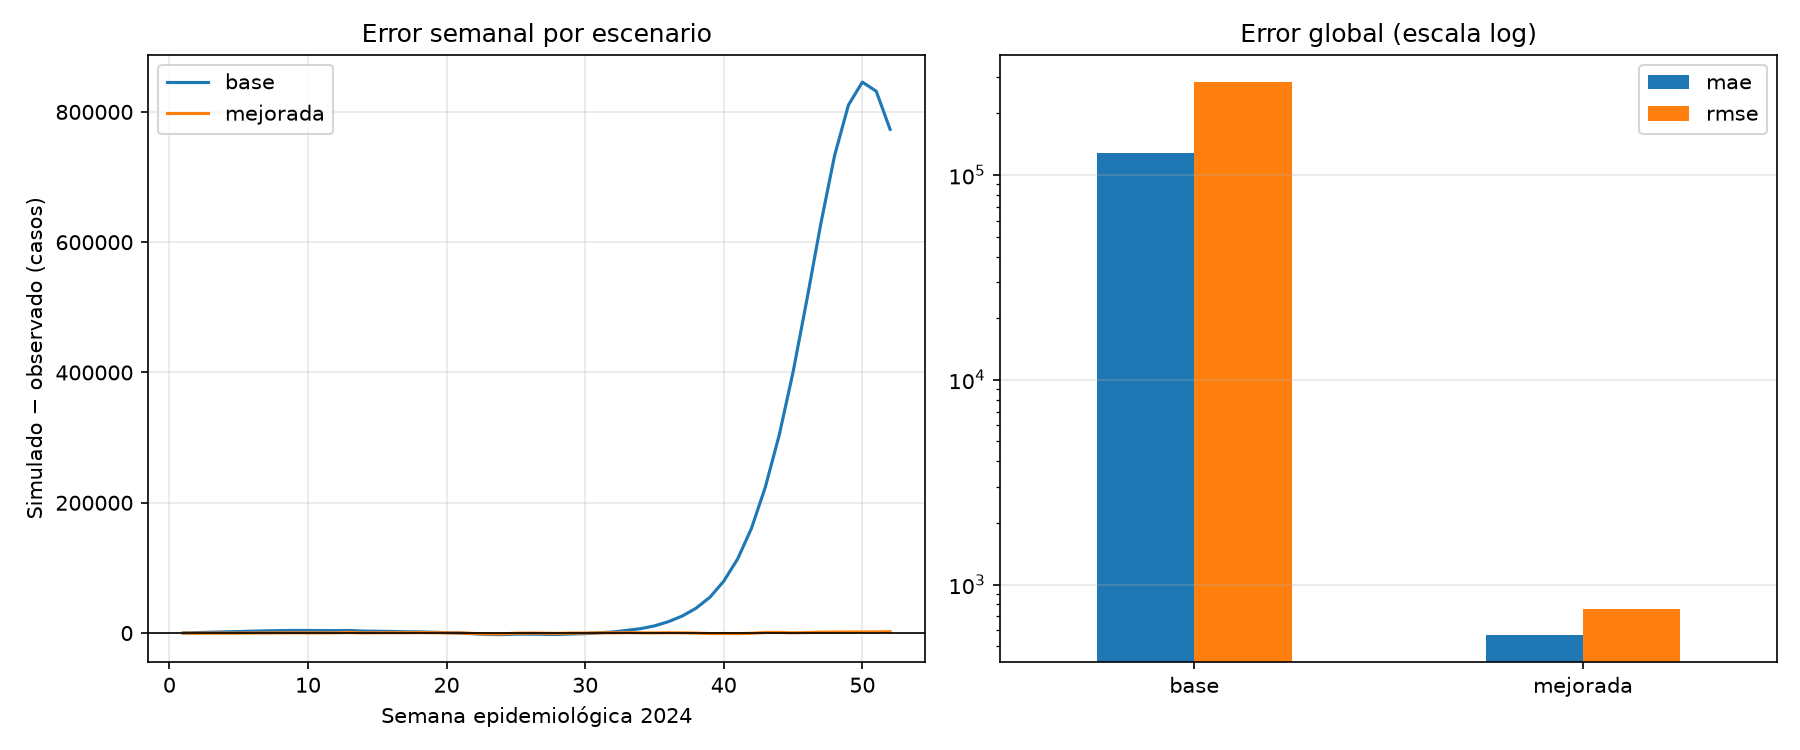
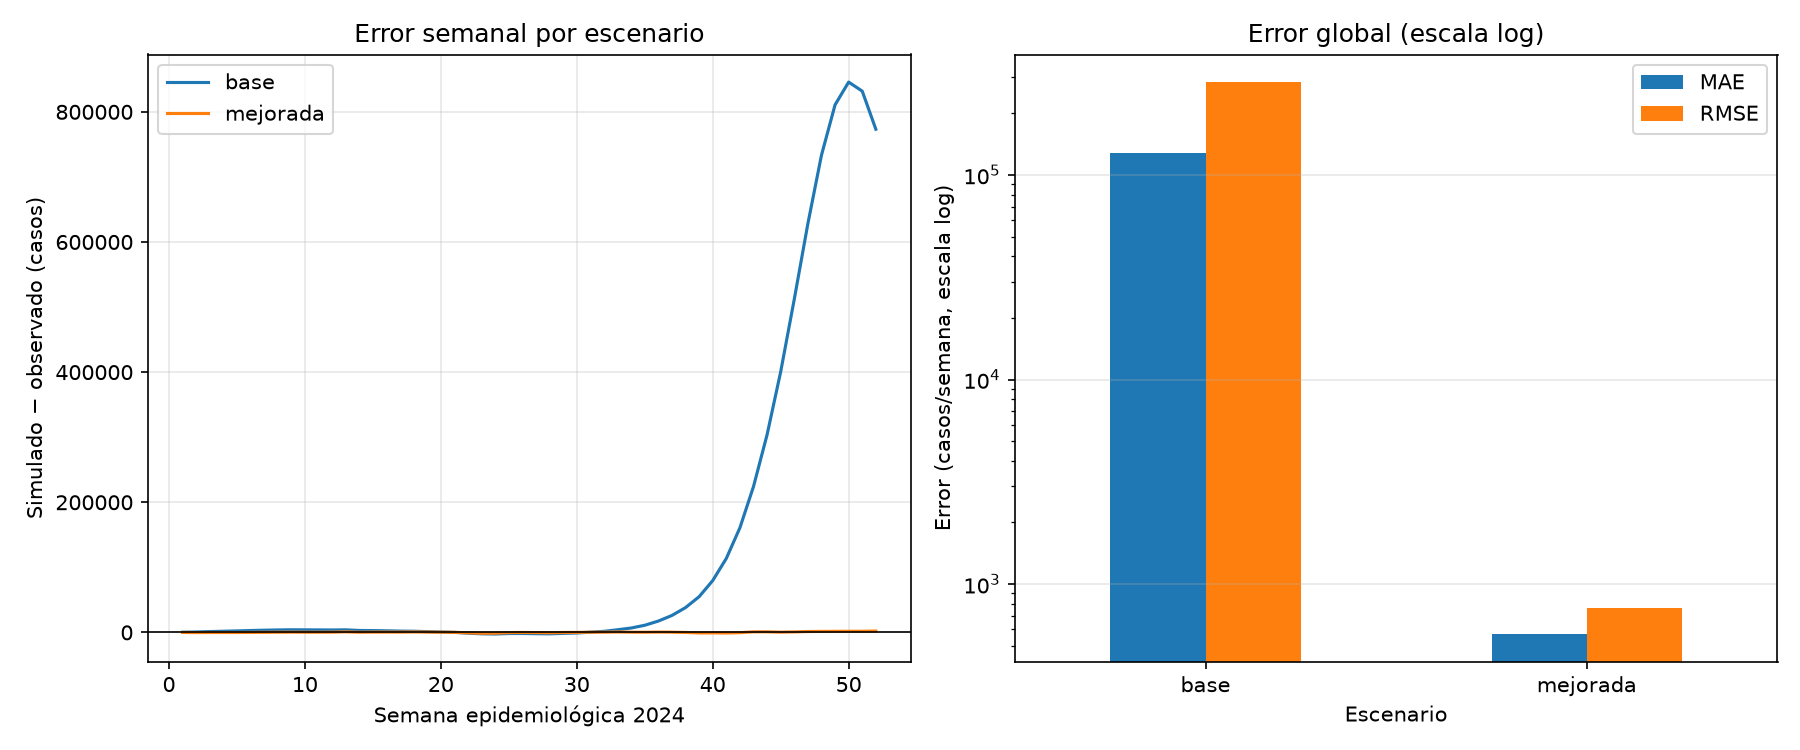
Aclarar etiquetas de graficas

diff --git a/src/graficas.py b/src/graficas.py
@@ -48,7 +48,9 @@ def comparar_escenarios(semanas, observados, escenarios, metricas, directorio):
     metricas[["mae", "rmse"]].plot.bar(ax=eje_metricas, rot=0)
     eje_metricas.set_yscale("log")
     eje_metricas.set_title("Error global (escala log)")
-    eje_metricas.set_xlabel("")
+    eje_metricas.set_xlabel("Escenario")
+    eje_metricas.set_ylabel("Error (casos/semana, escala log)")
+    eje_metricas.legend(["MAE", "RMSE"])
     eje_metricas.grid(alpha=0.3, axis="y")
 
     return _guardar(figura, directorio, "grafica_comparacion_escenarios.png")
@@ -61,7 +63,7 @@ def sensibilidad_local(tabla, directorio):
     cambio.plot.barh(ax=eje)
     eje.set_xscale("symlog", linthresh=10)
     eje.set_xlabel("Cambio en casos totales simulados (%, escala symlog)")
-    eje.set_ylabel("")
+    eje.set_ylabel("Parámetro variado")
     eje.set_title("Sensibilidad local de la solución calibrada")
     eje.legend(title="Factor")
     eje.grid(alpha=0.3, axis="x")
